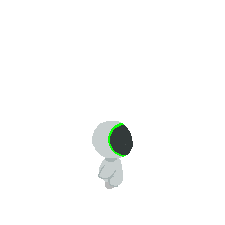
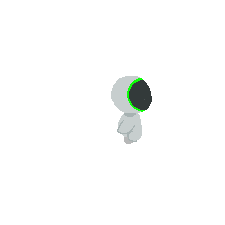
Changed right walking animation, Updated Spawn Manager, Updated Player Health, Updated Player Movement, Updated Player Shoot, Updated Player Animations, Added Death To Player

Changed region(s): [[0.4044, 0.3111, 0.6844, 0.84]]

diff --git a/Assets/Scripts/Player/PlayerMovement.cs b/Assets/Scripts/Player/PlayerMovement.cs
@@ -8,32 +8,40 @@ public class PlayerMovement : MonoBehaviour {
     private Rigidbody _rb;
     private int speed = 10;
     private Animator animator;
-
+    private PlayerHealth _ph;
 	// Use this for initialization
 	void Start () {
         _rb = gameObject.GetComponent<Rigidbody>();
         animator = gameObject.GetComponent<Animator>();
+        _ph = GetComponent<PlayerHealth>();
 	}
 	
 	// Update is called once per frame
 	void Update () {
+        if (_ph.isDead)
+            return;
 
         Vector3 pos = transform.position;
 
 		if(Input.GetKey(KeyCode.W)) {
             pos.z += speed * Time.deltaTime;
+            animator.SetInteger("direction", 1);
         }
 
         if (Input.GetKey(KeyCode.S)) {
             pos.z += -speed * Time.deltaTime;
+            animator.SetInteger("direction", 3);
         }
 
         if (Input.GetKey(KeyCode.A)) {
             pos.x += -speed * Time.deltaTime;
+            animator.SetInteger("direction", 0);
         }
 
         if (Input.GetKey(KeyCode.D)) {
             pos.x += speed * Time.deltaTime;
+            animator.SetInteger("direction", 2);
+
         }
 
         if(Input.anyKey) {
@@ -49,16 +57,5 @@ public class PlayerMovement : MonoBehaviour {
     }
 
     public void lookAt(Vector3 point) {
-        float ang = Quaternion.FromToRotation(Vector3.forward, point - transform.position).eulerAngles.y;
-        
-        if (ang >= 315 || ang <= 45) {
-            animator.SetInteger("direction", 1);
-        } else if (ang < 315 && ang >= 225) {
-            animator.SetInteger("direction", 0);
-        } else if (ang < 225 && ang >= 135) {
-            animator.SetInteger("direction", 3);
-        } else if (ang < 135 && ang > 45) {
-            animator.SetInteger("direction", 2);
-        }
     }
 }

diff --git a/Assets/Scripts/Enemy/EnemyController.cs b/Assets/Scripts/Enemy/EnemyController.cs
@@ -8,6 +8,7 @@ public class EnemyController : MonoBehaviour {
 	NavMeshAgent pathfinder;
 	Transform target;
     Animator animController;
+    PlayerHealth _ph;
 
     private Vector3 lastpos;
 
@@ -16,17 +17,28 @@ public class EnemyController : MonoBehaviour {
 		target = GameObject.FindGameObjectWithTag ("Player").transform;
         pathfinder.updateRotation = false;
         animController = transform.GetComponentInChildren<Animator>();
+        _ph = target.GetComponent<PlayerHealth>();
 	}
 
 
     void Update() {
+        var state = animController.GetCurrentAnimatorStateInfo(0);
 
         pathfinder.SetDestination(target.position);
-
-        if(Vector3.Distance(target.position, transform.position) < 5) {
+        if(state.IsName("Enemy_hit_left") || state.IsName("Enemy_hit_front") || state.IsName("Enemy_hit_right") ) {
             pathfinder.isStopped = true;
         } else {
             pathfinder.isStopped = false;
+        }
+
+        if(Vector3.Distance(transform.position, target.position) < 30) {
+            pathfinder.isStopped = false;
+        } else {
+            pathfinder.isStopped = true;
+        }
+
+        if(_ph.isDead) {
+            pathfinder.isStopped = true;
         }
 
         float ang = Quaternion.LookRotation(pathfinder.velocity).eulerAngles.y;

diff --git a/Assets/Scripts/Enemy/EnemySpawnManager.cs b/Assets/Scripts/Enemy/EnemySpawnManager.cs
@@ -6,10 +6,11 @@ public class EnemySpawnManager : MonoBehaviour {
 
     private GameObject[] _spawners;
     private GameObject player;
-    private float maxCooldown = 3;
+    private float maxCooldown = 2;
     private float curCooldown = 0;
-    private float maxSpawnDistance = 20;
+    private float maxSpawnDistance = 100;
     private List<GameObject> av_spawners = new List<GameObject>();
+    public int maxEnemies = 100;
 
     public GameObject enemy;
 
@@ -23,7 +24,7 @@ public class EnemySpawnManager : MonoBehaviour {
 	void Update () {
         int numEnemies = GameObject.FindGameObjectsWithTag("Enemy").Length;
 
-        if(curCooldown <= 0) {
+        if(curCooldown <= 0 && numEnemies < maxEnemies) {
             curCooldown = maxCooldown;
             av_spawners.Clear();
             foreach(var go in _spawners) {

diff --git a/Assets/Scripts/Player/PlayerHealth.cs b/Assets/Scripts/Player/PlayerHealth.cs
@@ -5,6 +5,9 @@ using UnityEngine;
 public class PlayerHealth : MonoBehaviour {
 	private int startingHealth;
 	public int currentHealth;
+    private PlayerMovement _pm;
+    private Animator animController;
+    public bool isDead = false;
 
 	public void addHealth(int amount){
 		currentHealth += amount;
@@ -15,16 +18,18 @@ public class PlayerHealth : MonoBehaviour {
 		startingHealth = 10;
 		currentHealth = startingHealth;
 
-	}
+        _pm = GetComponent<PlayerMovement>();
+        animController = GetComponent<Animator>();
+
+    }
 
 	public void HurtPlayer(int damageAmount)
 	{
 		currentHealth -= damageAmount;
 
-		if (currentHealth <=0)
-		{
-			
-			Destroy (gameObject);
+		if (currentHealth <=0) {
+            isDead = true;
+            animController.SetBool("isDead", true);
 		}
 
 	}

diff --git a/Assets/Scripts/Player/PlayerShoot.cs b/Assets/Scripts/Player/PlayerShoot.cs
@@ -6,9 +6,14 @@ public class PlayerShoot : MonoBehaviour {
 
     public GameObject projectile;
     public LayerMask mask;
+    private PlayerHealth _ph;
+
+    private void Start() {
+        _ph = GetComponent<PlayerHealth>();
+    }
 
     private void Update() {
-        if (Input.GetMouseButtonDown(0)) {
+        if (Input.GetMouseButtonDown(0) && !_ph.isDead) {
             Shoot();
         }
     }

diff --git a/Assets/Scripts/Enemy/PlayerHurt.cs b/Assets/Scripts/Enemy/PlayerHurt.cs
@@ -6,12 +6,11 @@ public class PlayerHurt : MonoBehaviour {
 
 	public int damageToGive;
 
-    public void OnTriggerEnter(Collider other)
+    public void OnCollisionEnter(Collision other)
 	{
 		if (other.gameObject.tag == "Player") 
 		{
 			other.gameObject.GetComponent<PlayerHealth>().HurtPlayer(damageToGive);
-
 		}
 	}
 }
